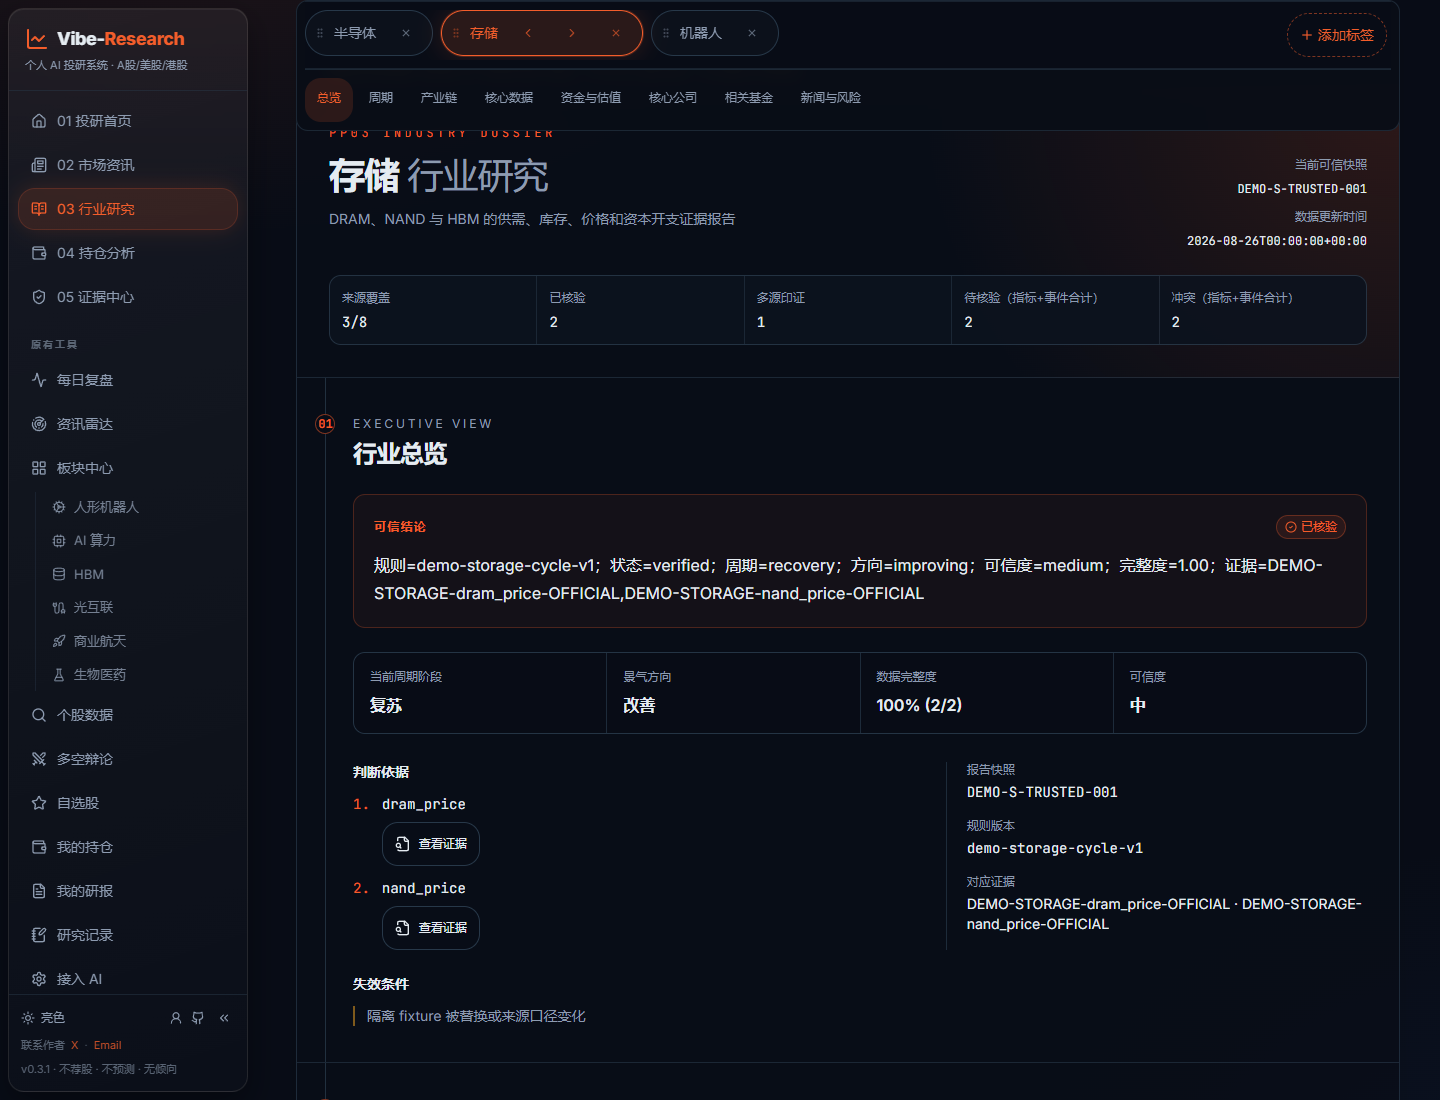
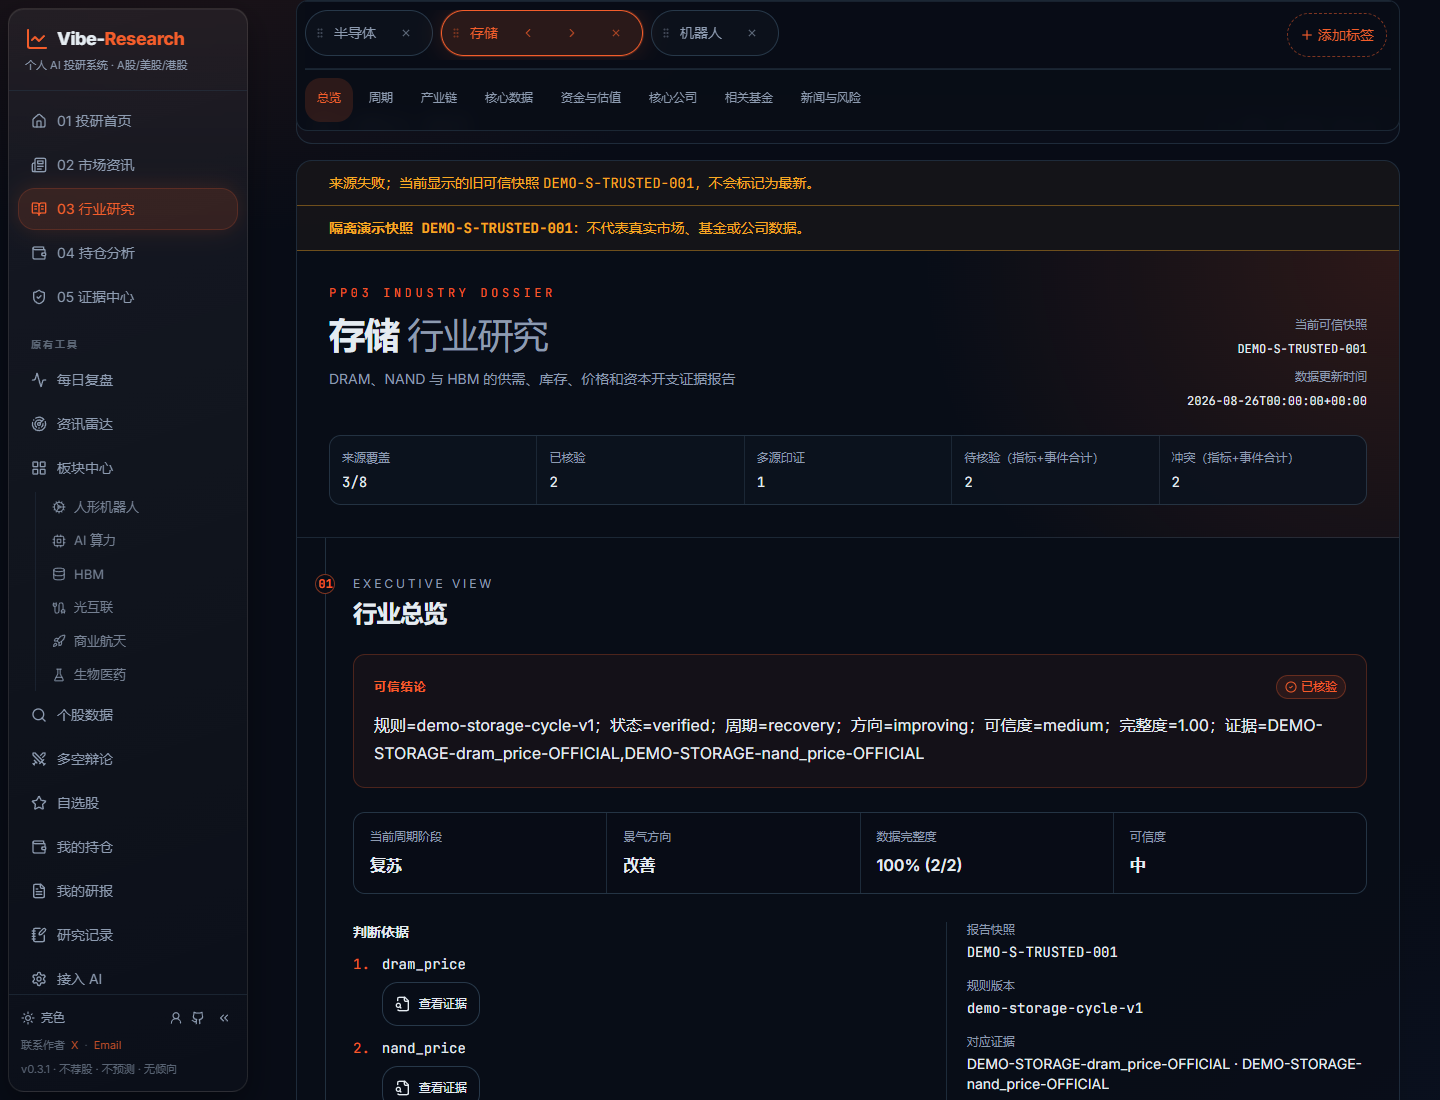
docs(acceptance): record industry truth validation

diff --git a/docs/acceptance/v0.2-w3-industry-research.md b/docs/acceptance/v0.2-w3-industry-research.md
@@ -1,7 +1,7 @@
 # PP03 V0.2-W3 行业研究隔离浏览器验收
 
-- 被测实现提交：`2bfc2286741e3f0bc387435e0a95ff46c7b89406`
-- 被测树：`d64390102a86026c6984804a28ce528267aa60a3`
+- 被测实现提交：`2f8a4da10cd5e5ac80b7f51988eb60a3d6943b80`
+- 被测树：`e372ebd7aa947aee899d6560597baf766e3c44d3`
 - 结论：`PASS`（隔离 fixture、离线回归与浏览器真实性闸门通过）
 - 证据提交：包含本报告、manifest 与正式截图的后续独立提交；不回写被测实现提交。
 
